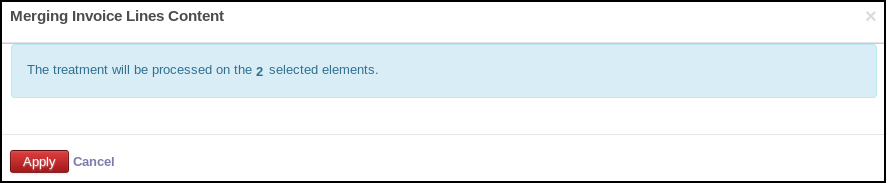
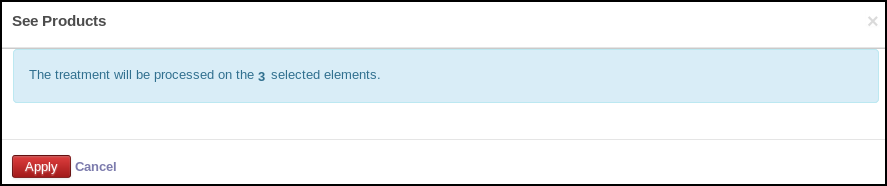
WIP

diff --git a/mass_linking/__openerp__.py b/mass_linking/__openerp__.py
@@ -9,7 +9,7 @@
     'version': "8.0.1.0.0",
     'author': 'GRAP',
     'summary': "Provide the possibility to see any related items of selected"
-    "items",
+    " items",
     'category': 'Tools',
     'website': 'http://www.grap.coop',
     'license': 'AGPL-3',
@@ -17,10 +17,17 @@
         'mass_operation_abstract',
     ],
     'data': [
+        'security/ir.model.access.csv',
         'views/view_mass_linking.xml',
         'views/view_mass_linking_wizard.xml',
     ],
     'demo': [
         'demo/mass_linking.xml',
+    ],
+    'images': [
+        'static/description/mass_linking_form.png',
+        'static/description/result_product_list.png',
+        'static/description/sale_order_tree.png',
+        'static/description/wizard_form_ok.png',
     ],
 }

diff --git a/mass_linking/__init__.py b/mass_linking/__init__.py
@@ -1,2 +1,2 @@
-# -*- coding: utf-8 -*-
+# coding: utf-8
 from . import models

diff --git a/mass_linking/readme/CONFIGURE.rst b/mass_linking/readme/CONFIGURE.rst
@@ -1,25 +1,22 @@
-* Go to 'Setting / Technical / Mass Operations / Merging Content'
+* Go to 'Setting / Technical / Mass Operations / Link'
 
 * Create a new item
 
-.. figure:: ../static/description/mass_merging_content_form.png
+.. figure:: ../static/description/mass_linking_form.png
 
-* Set a name for the button that will appear on the target model
+* Set a name for your link, and another for the button that will appear on the
+  target model
 
-* choose a model, and select a ``one2many`` fields of this model
+* choose a model
 
-* for each field of this submodel, select the operation type
+* Then, select a field of this model. It can be a ``one2many``, ``many2many``,
+  ``many2one`` field.
 
-1. 'Group' : the lines will not be merged if this field is different
+* You can then optionally select a field (#2) that belong to the previous
+  selected field (#1) model
 
-2. 'Sum': the value of this field will be sumed into the merged lines.
-   (usefull for ``integer`` and ``float`` fields)
-
-3. 'Join Texts': the value of this field will be joined.
-   (usefull for ``char`` fields)
-
-4. 'Related Value': the value will be recomputed, based on the given extra
-   argument.
+* You can then optionally select a field (#3) that belong to the previous
+  selected field (#2) model
 
 * Once done, click on the 'Add Sidebar button' to generate a new 'More options'
   button.
@@ -27,6 +24,7 @@
 
 **Extra options**
 
-* you can define a domain, to limit the merge operation to items that match
+* you can define a domain, to limit the link operation to items that match
   with that domain.
 * you can define groups whose members will have access to that option.
+* You can select an action that will be used to display the target field list.

diff --git a/mass_linking/readme/USAGE.rst b/mass_linking/readme/USAGE.rst
@@ -2,24 +2,17 @@
 
 * select items and click on 'More' and on the new button
 
-.. figure:: ../static/description/account_invoice_tree.png
+.. figure:: ../static/description/sale_order_tree.png
 
 
 * the opened pop up display the number of selected items
 
 .. figure:: ../static/description/wizard_form_ok.png
 
-if some items doesn't match with the domain, a warning is displayed
+**Result**
 
-.. figure:: ../static/description/wizard_form_warning.png
+It will display all the products associated to all the sale order lines
+associated to the selected sale orders.
 
-* Click on the 'Apply' button to process
 
-
-**Before the merge**
-
-.. figure:: ../static/description/account_invoice_form_before.png
-
-**After the merge**
-
-.. figure:: ../static/description/account_invoice_form_after.png
+.. figure:: ../static/description/result_product_list.png

diff --git a/mass_linking/readme/DESCRIPTION.rst b/mass_linking/readme/DESCRIPTION.rst
@@ -1,7 +1,2 @@
-This module provides a generic tools to merge the content of any models,
-reducing the lines quantity.
-
-A typical usage is in accounting context, when you have a big invoice,
-generated from many sale (/purchase) orders with many similar lines.
-(same product, same account, etc.)
-In that case, this module provides a tools to merge the similar invoice lines.
+This module provides a generic tools to have the possibility to see a list of
+items associated to a given selection.
